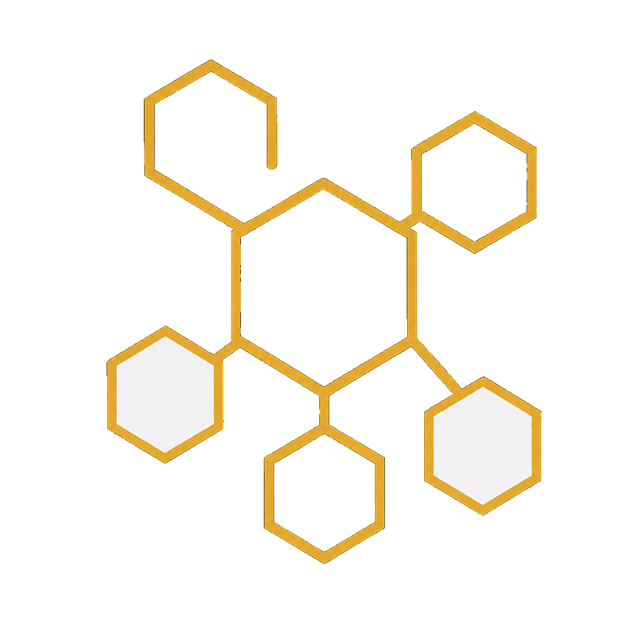
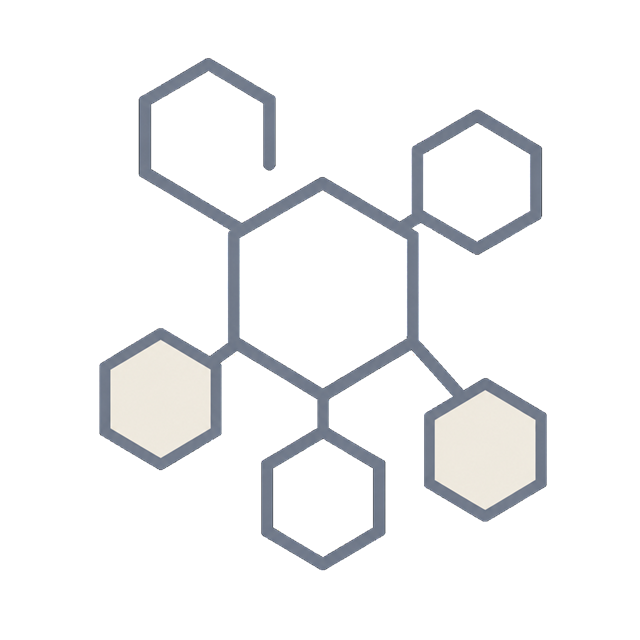
feat: change color

Changed region(s): [[0.1562, 0.0938, 0.875, 0.9062]]

diff --git a/apps/web/src/styles/theme.css b/apps/web/src/styles/theme.css
@@ -1,13 +1,13 @@
 :root {
-  /* Cosmic Honey — space-led with a subtle beeswax warmth */
-  --color-cosmic-50: #f7f7f2;
-  --color-cosmic-100: #e7e7dc;
-  --color-cosmic-200: #d0ceb9;
-  --color-cosmic-300: #b8af82;
-  --color-cosmic-400: #9e8b52;
-  --color-cosmic-500: #746f62;
-  --color-cosmic-600: #59616d;
-  --color-cosmic-700: #404b5b;
+  /* Cosmic — space-led with a trace of beeswax in the lightest steps */
+  --color-cosmic-50: #f7f7f3;
+  --color-cosmic-100: #ebe9dd;
+  --color-cosmic-200: #d5d3c2;
+  --color-cosmic-300: #b6bcc0;
+  --color-cosmic-400: #919aa4;
+  --color-cosmic-500: #707a86;
+  --color-cosmic-600: #566270;
+  --color-cosmic-700: #3f4c5b;
   --color-cosmic-800: #2a3747;
   --color-cosmic-900: #192635;
   --color-cosmic-950: #0c1722;
@@ -19,7 +19,7 @@
   --surface-strong: var(--color-cosmic-200);
   --muted: var(--color-cosmic-600);
   --border: var(--color-cosmic-300);
-  --accent: var(--color-cosmic-400);
+  --accent: var(--color-cosmic-200);
   --accent-ink: var(--color-cosmic-600);
   --accent-contrast: var(--color-cosmic-950);
 
@@ -33,8 +33,8 @@
   --surface-strong: var(--color-cosmic-800);
   --muted: var(--color-cosmic-300);
   --border: var(--color-cosmic-700);
-  --accent: var(--color-cosmic-400);
-  --accent-ink: var(--color-cosmic-300);
+  --accent: var(--color-cosmic-200);
+  --accent-ink: var(--color-cosmic-200);
   --accent-contrast: var(--color-cosmic-950);
 
   color-scheme: dark;
@@ -48,8 +48,8 @@
     --surface-strong: var(--color-cosmic-800);
     --muted: var(--color-cosmic-300);
     --border: var(--color-cosmic-700);
-    --accent: var(--color-cosmic-400);
-    --accent-ink: var(--color-cosmic-300);
+    --accent: var(--color-cosmic-200);
+    --accent-ink: var(--color-cosmic-200);
     --accent-contrast: var(--color-cosmic-950);
 
     color-scheme: dark;
